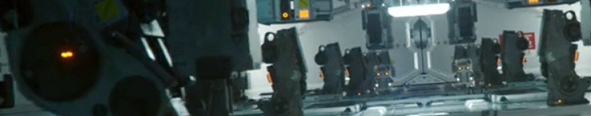
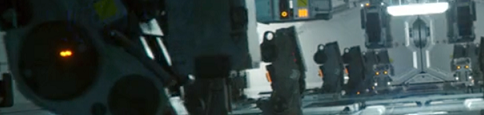
second commit

diff --git a/index.html b/index.html
@@ -25,10 +25,12 @@
         <p class='sub-title'> Thurs. 6:30 - 8:00pm | CFA 317 </p>
         <p class='sub-title'> 3 Units </p>
         <p style='margin: 20px 0 20px 0;'> In this course, we will introduce studio standards for making videos and animations by merging classing animation techniques with professional video-editing techniques and software. Students will be exposed to Hand-Drawn Animation, Vector-Based Animation, Video Editing, Kinetic Typography & Motion Graphics. This course covers the entire creative process from storyboarding & animatics to editing & post-production. No artistic background is required, although some may find the animation portion easier with drawing experience.</p>
+        
         <div class='syllabus' id='syllabus'>
             <p> Syllabus </p>
             <div class='color-bar'></div>
         </div>
+
         <div class='divider'></div>
 
 

diff --git a/resources-style.css b/resources-style.css
@@ -71,8 +71,8 @@
 @media (max-width: 550px) {
 
 	img {
-		max-width: 50%;
-		max-height: 50%;
+		max-width: 65%;
+		max-height: 65%;
 	}
 
 	.resource-title {
